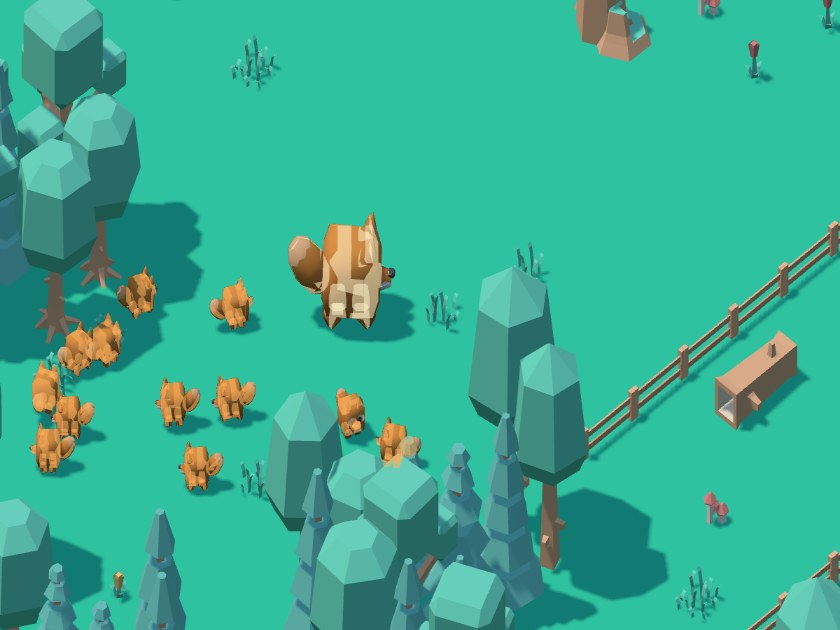
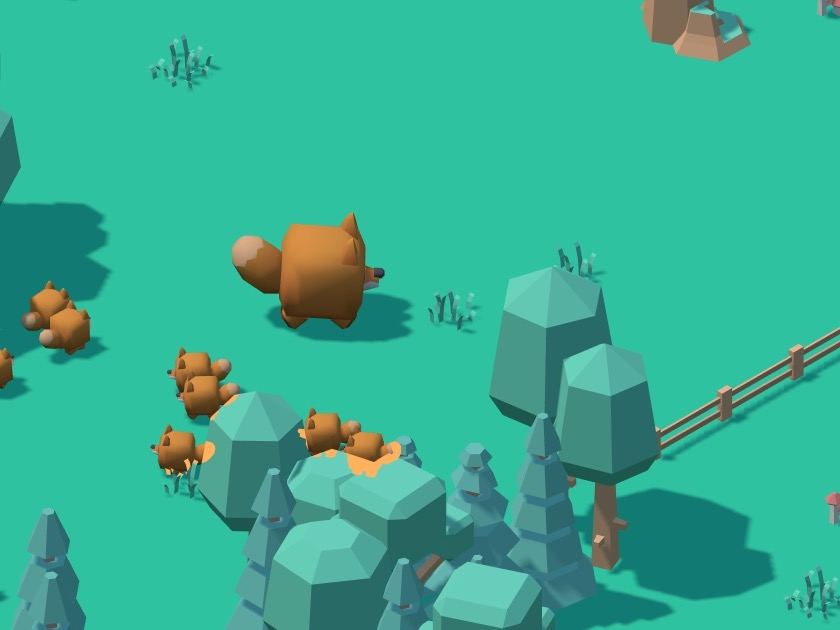
Card and plate from the real GPU; silhouette only behind the world; gameaday shelf on the door and the result

diff --git a/public/card.html b/public/card.html
@@ -1,6 +1,6 @@
 <!doctype html>
 <html><head><meta charset="utf-8"><title>card</title>
-<style>html,body{margin:0;background:#157a3a;overflow:hidden}#host{position:relative;width:1200px;height:630px}.mg-canvas{position:absolute;inset:0;width:100%;height:100%}</style></head>
+<style>html,body{margin:0;background:#157a3a;overflow:hidden}#host{position:relative;width:1200px;height:630px}#host.plate{width:840px;height:630px}.mg-canvas{position:absolute;inset:0;width:100%;height:100%}</style></head>
 <body><div id="host"></div>
 <script>window.BUILD=""</script>
 <script type="module">
@@ -15,6 +15,7 @@ const ticks = Number(q.get("ticks") || 300)
 const state = create(seed, { tier: q.get("tier") || "big" })
 const lv = state.level
 const host = document.getElementById("host")
+if (q.get("as") === "plate") host.className = "plate"
 const w = await makeWorld(host, lv, { lookOpts: { viewH: Number(q.get("viewH") || 8.5), camLift: 1 } })
 apply(state, { r: 1 })
 // every kit is already hers: they sprint in from their spots and settle into the line as she walks
@@ -34,4 +35,11 @@ for (let i = 0; i < ticks; i++) {
   w.frame(now, { att: state.att })
 }
 window.__cardReady = true
+// a dev sink to post the pixels to (tools/card-serve.mjs): the drawing buffer is still intact in this same task
+const post = q.get("post")
+if (post) {
+  const cv = host.querySelector("canvas")
+  const plate = q.get("as") === "plate"
+  cv.toBlob((b) => fetch(post + (plate ? "?as=plate" : ""), { method: "POST", body: b }).then(() => { document.title = "posted" }), plate ? "image/jpeg" : "image/png", 0.9)
+}
 </script></body></html>
